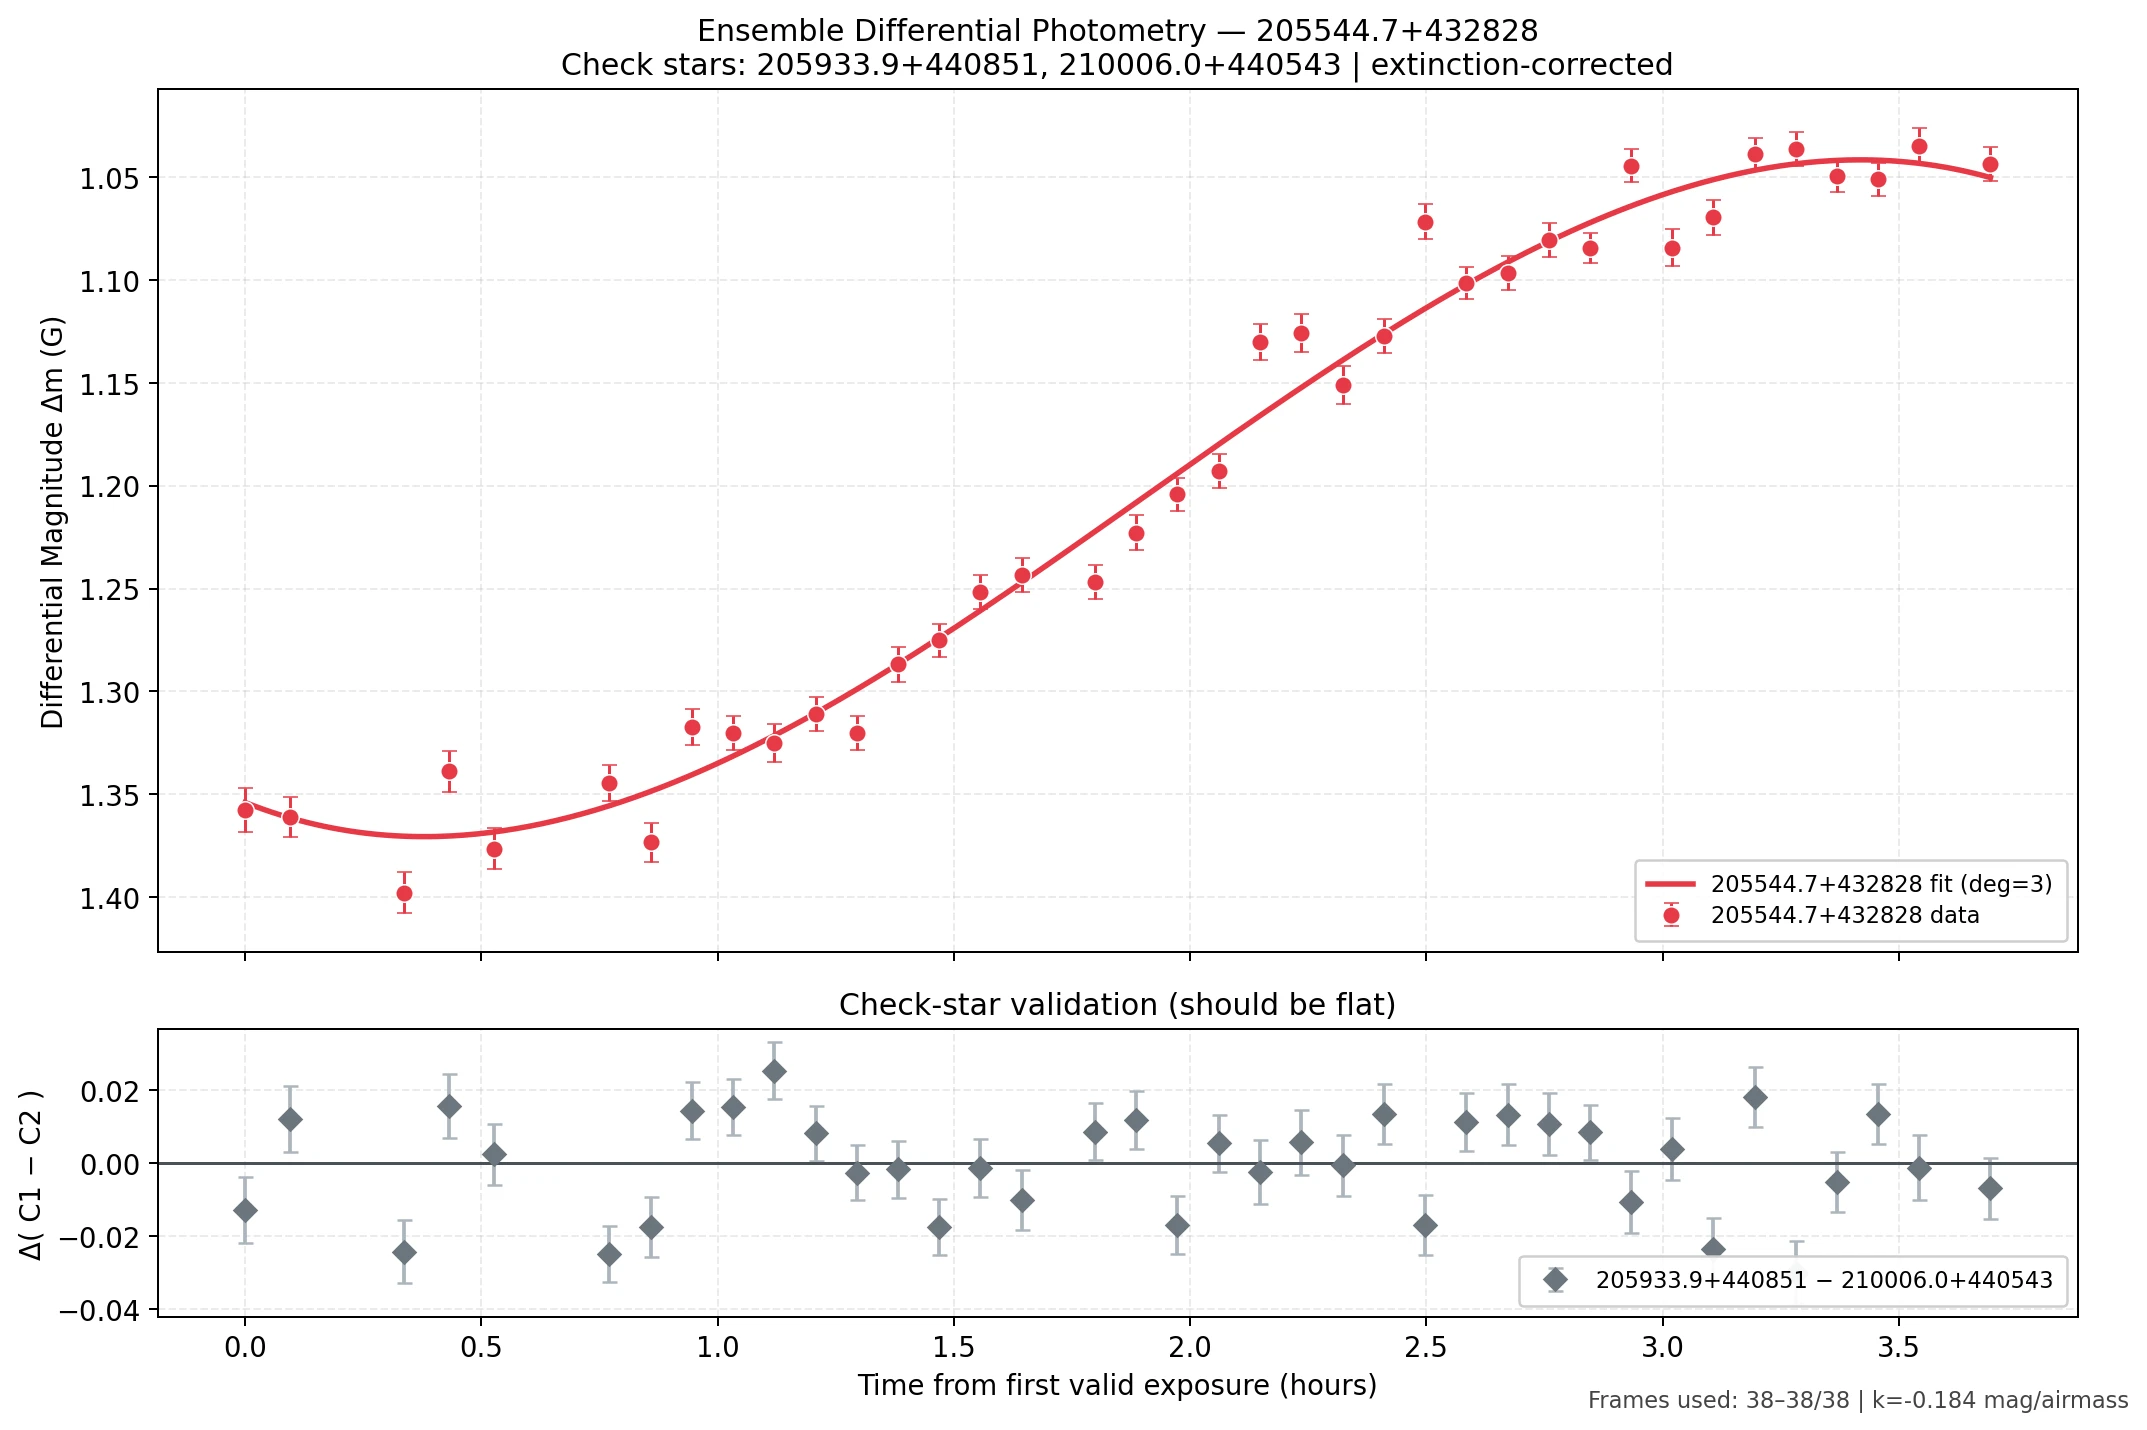
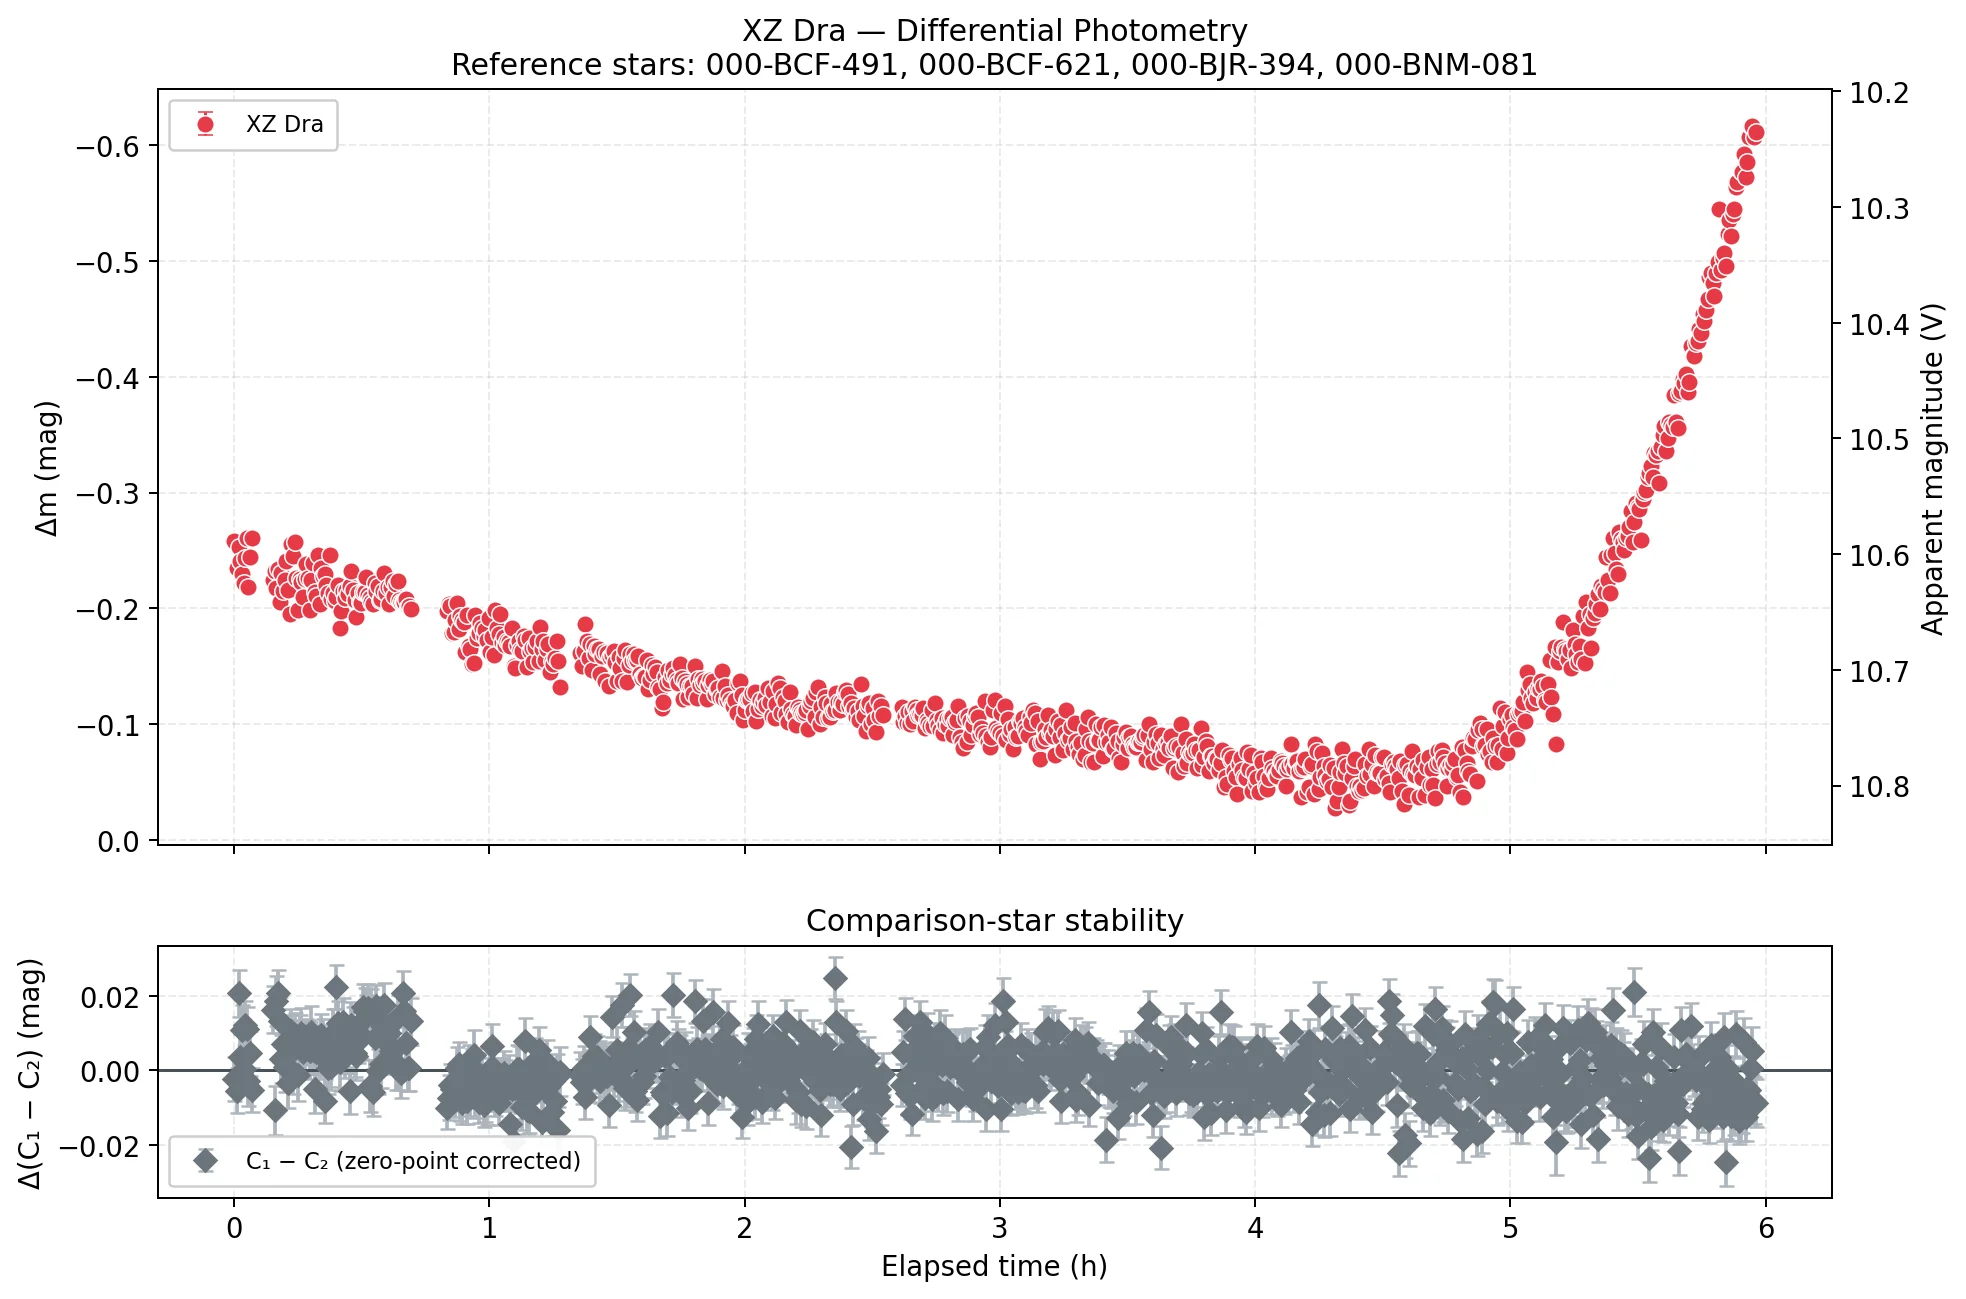
Replace photometry gallery image with XZ Dra single-night light curve.

diff --git a/app/dashboard/gallery/page.tsx b/app/dashboard/gallery/page.tsx
@@ -15,7 +15,7 @@ const DEEP_SKY_IMAGES: GalleryImage[] = [
 ]
 
 const PHOTOMETRY_IMAGES: GalleryImage[] = [
-  { file: 'photo5.webp', description: 'V2563_Cyg_12.45-12.77:_Period_0.530922' },
+  { file: 'photo5.webp', description: 'XZ Dra | RR Lyrae' },
 ]
 
 type DataCategory = 'deep_sky' | 'photometry'
